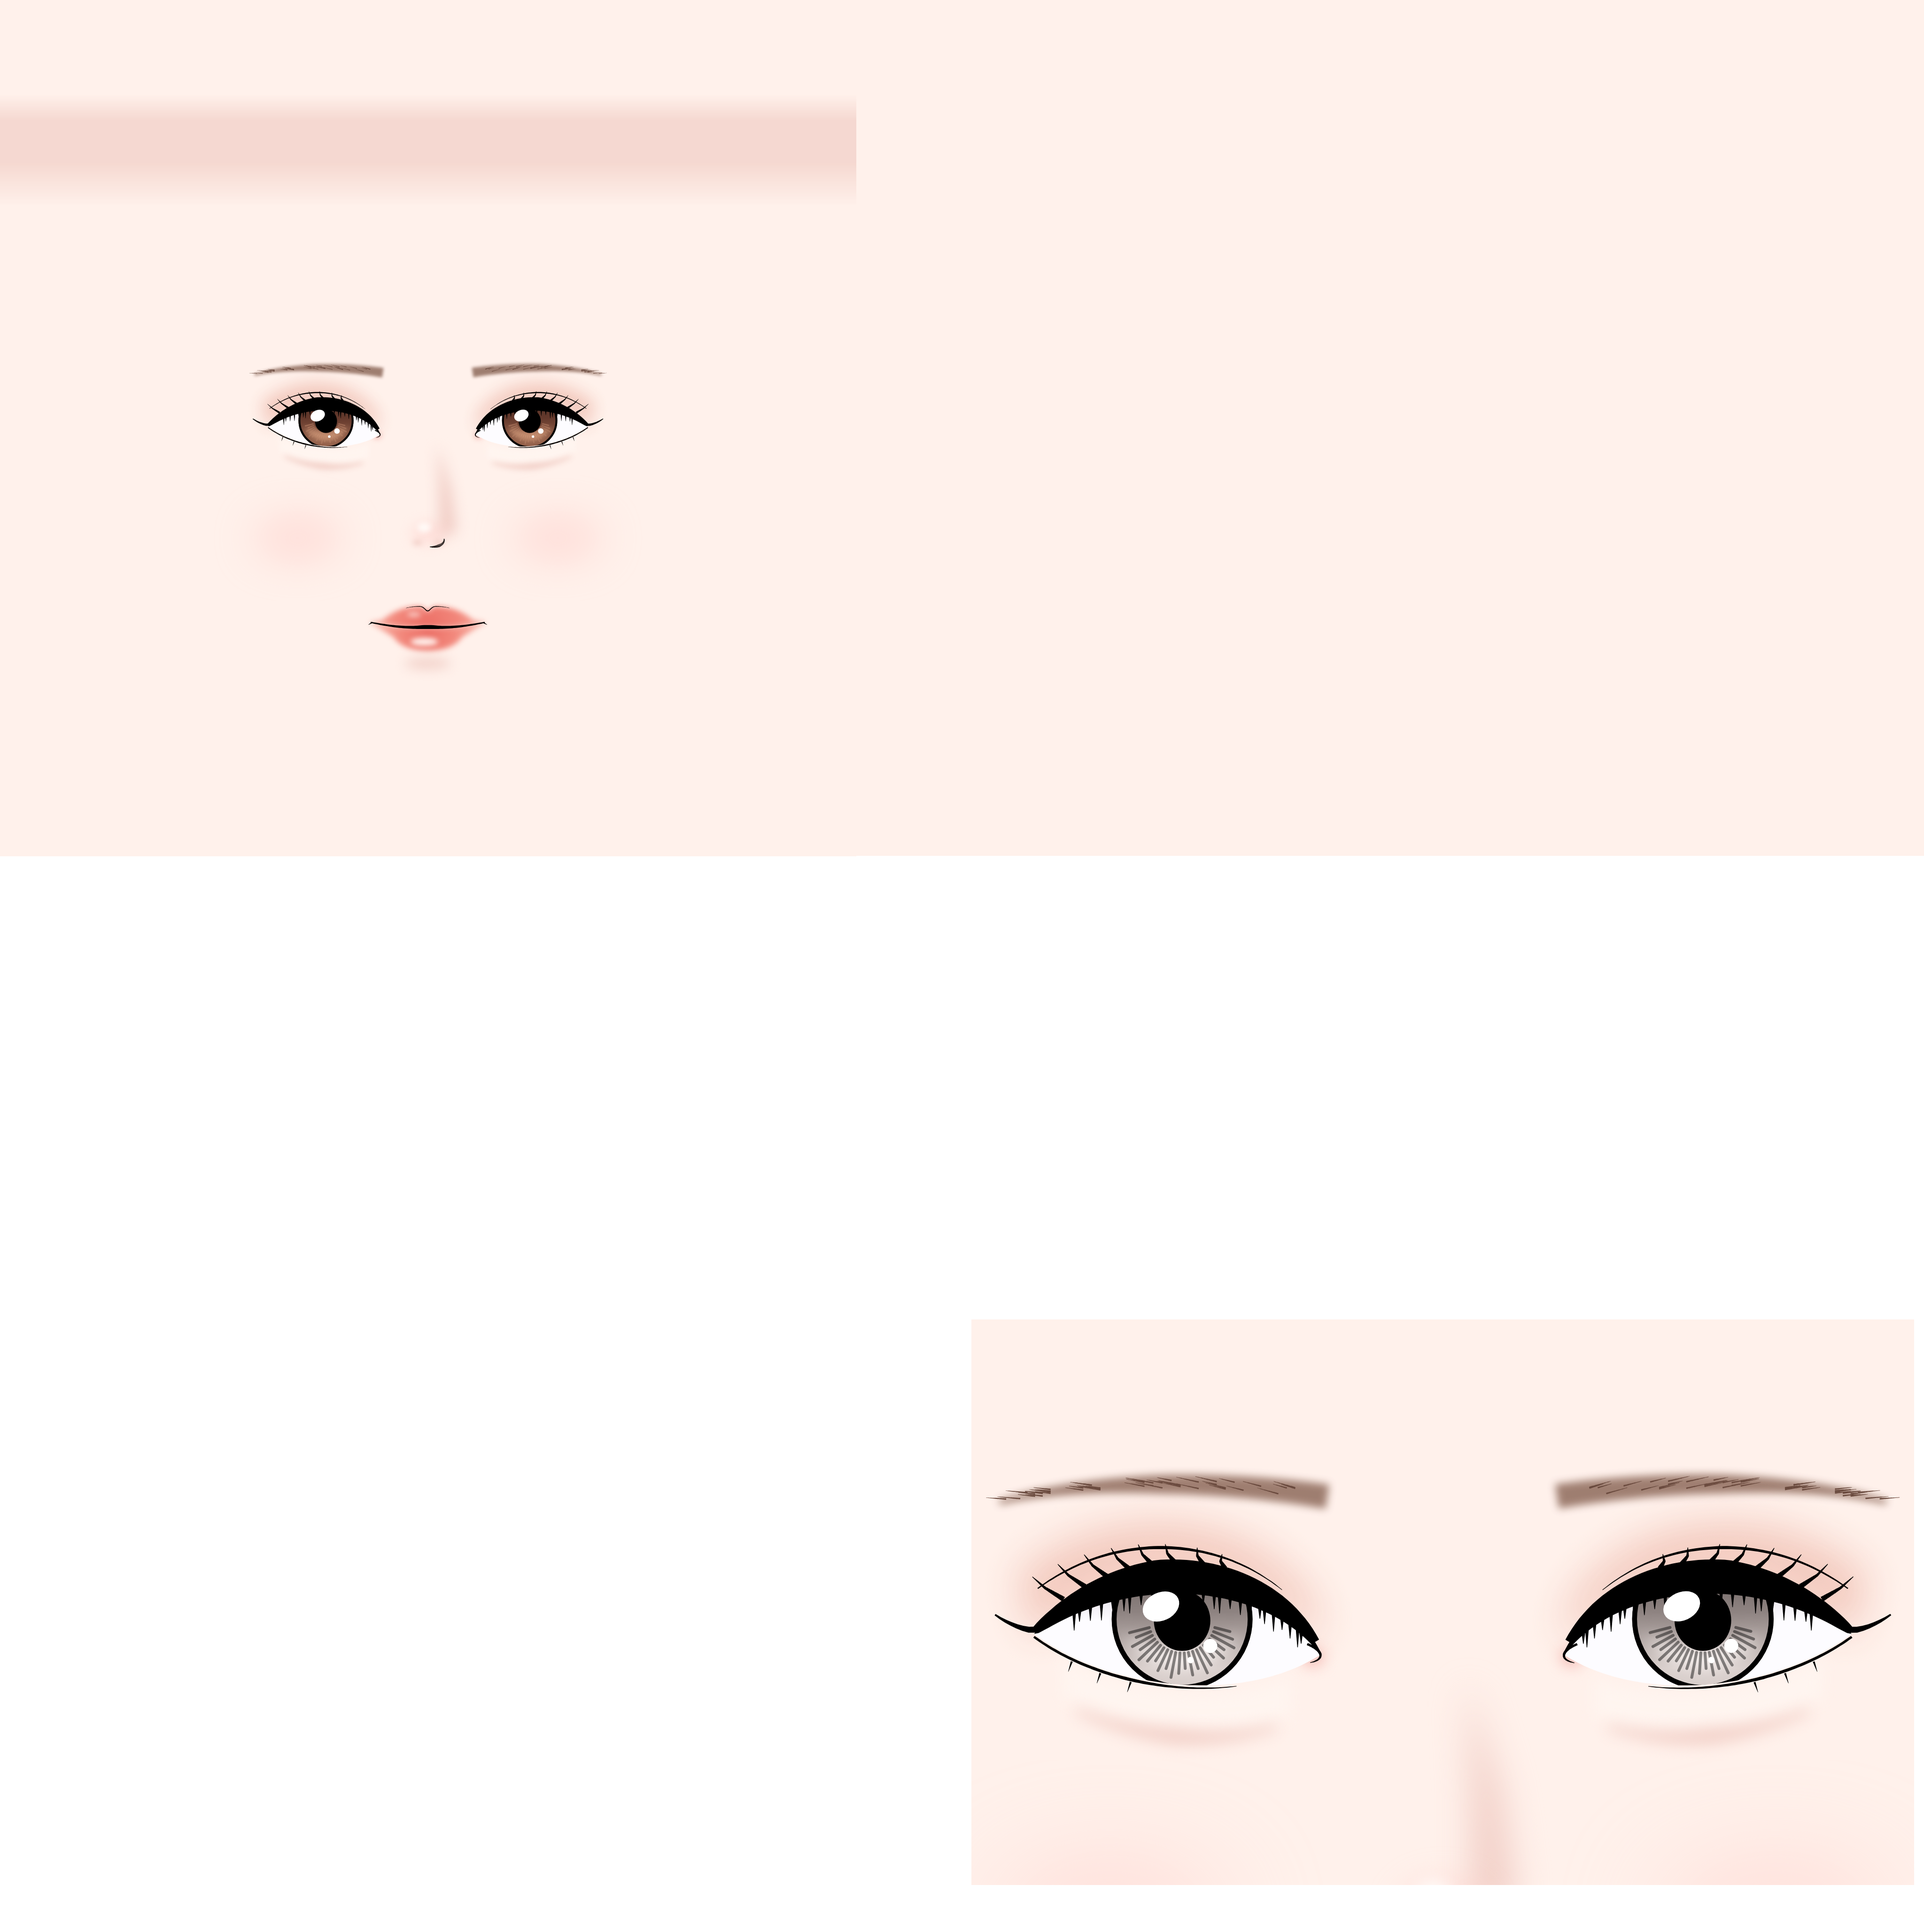
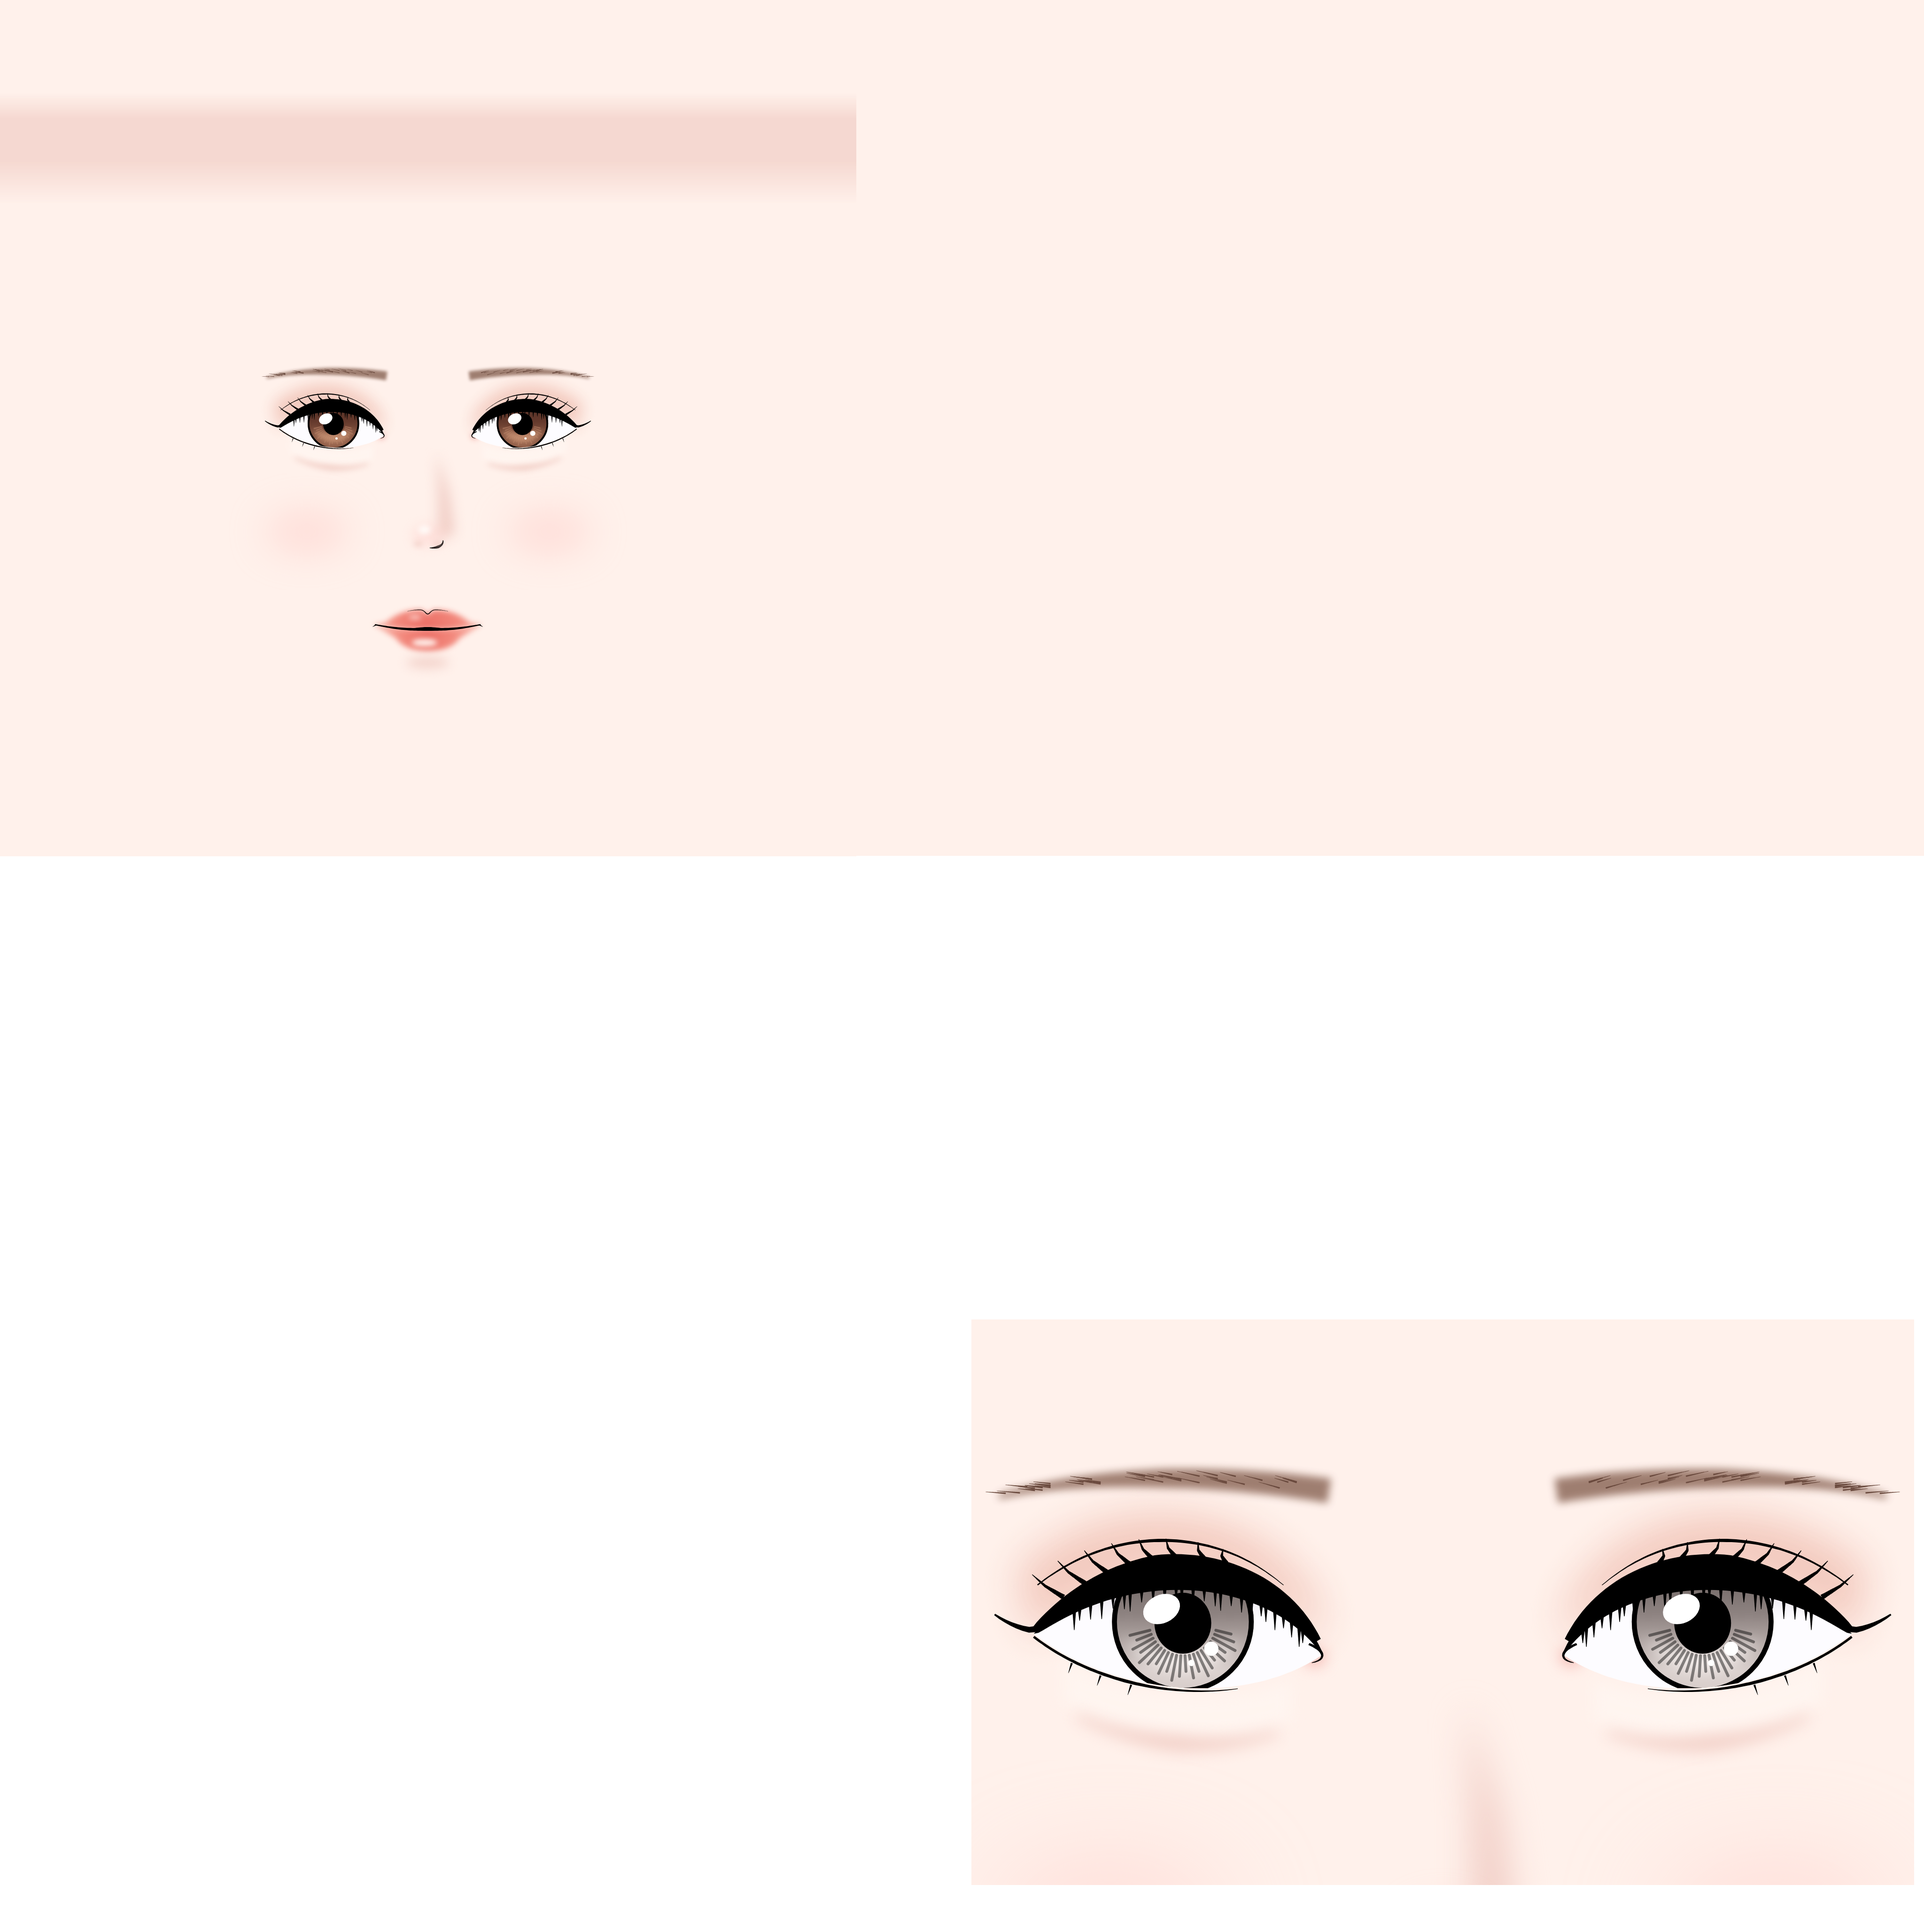
Slim Chaewon's face: narrower cheekbones and a V-line jaw
Cheekbone width 14.7 -> 13.4 cm and jaw 11.3 -> 8.8 cm (a slim young woman's proportions), with
softer, less full cheeks and a gently pointed chin; the mouth cavity stays hidden under the jaw.

Claude-Session: https://claude.ai/code/session_01A7VtKzyp92Bawj5jHazmzM

diff --git a/scripts/chaewon/mhbody.py b/scripts/chaewon/mhbody.py
@@ -121,10 +121,10 @@ SIDES = ('l', 'r')
 SHAPE = [
     # Head: an idol's small face but true to her body (about eight heads tall), a soft V-line oval.
     ('head/head-oval', 0.45, None, None), ('head/head-age', -0.6, 'decr', 'incr'),
-    ('head/head-scale-horiz', 0.05, 'decr', 'incr'), ('head/head-scale-vert', 0.2, 'decr', 'incr'),
-    ('head/head-scale-depth', 0.0, 'decr', 'incr'), ('head/head-fat', -0.2, 'decr', 'incr'),
+    ('head/head-scale-horiz', -0.3, 'decr', 'incr'), ('head/head-scale-vert', 0.2, 'decr', 'incr'),
+    ('head/head-scale-depth', 0.0, 'decr', 'incr'), ('head/head-fat', -0.5, 'decr', 'incr'),
     ('head/head-back-scale-depth', -0.25, 'decr', 'incr'),
-    ('chin/chin-width', -0.2, 'decr', 'incr'), ('chin/chin-height', -0.5, 'decr', 'incr'),
+    ('chin/chin-width', -0.4, 'decr', 'incr'), ('chin/chin-height', -0.5, 'decr', 'incr'),
     ('chin/chin-prominent', 0.15, 'decr', 'incr'), ('chin/chin-bones', -0.3, 'decr', 'incr'),
     ('chin/chin-prognathism', 0.2, 'decr', 'incr'),
     ('forehead/forehead-scale-vert', -0.3, 'decr', 'incr'), ('forehead/forehead-trans-backward', 0.0, 'forward', 'backward'),
@@ -165,7 +165,7 @@ for s in SIDES:
         (f'eyes/{s}-eye-epicanthus', -0.4, 'in', 'out'), (f'eyes/{s}-eye-bag', -0.6, 'decr', 'incr'),
         (f'eyes/{s}-eye-corner1', 0.15, 'down', 'up'), (f'eyes/{s}-eye-corner2', 0.25, 'down', 'up'),
         (f'eyes/{s}-eye-eyefold-angle', 0.2, 'down', 'up'),
-        (f'cheek/{s}-cheek-volume', 0.25, 'decr', 'incr'), (f'cheek/{s}-cheek-bones', -0.15, 'decr', 'incr'),
+        (f'cheek/{s}-cheek-volume', 0.05, 'decr', 'incr'), (f'cheek/{s}-cheek-bones', -0.35, 'decr', 'incr'),
         (f'armslegs/{s}-hand-scale', -0.3, 'decr', 'incr'), (f'armslegs/{s}-hand-fingers-diameter', -0.45, 'decr', 'incr'),
         (f'armslegs/{s}-hand-fingers-length', 0.3, 'decr', 'incr'), (f'armslegs/{s}-foot-scale', -0.25, 'decr', 'incr'),
         (f'armslegs/{s}-lowerarm-scale-horiz', -0.2, 'decr', 'incr'), (f'armslegs/{s}-upperarm-scale-horiz', -0.15, 'decr', 'incr'),
@@ -176,7 +176,7 @@ for s in SIDES:
 
 # A soft oval face with a small, gently pointed chin (her likeness), and a fuller bust.
 SHAPE += [
-    ('head/head-round', 0.35, None, None), ('head/head-invertedtriangular', 0.15, None, None),
+    ('head/head-round', 0.15, None, None), ('head/head-invertedtriangular', 0.35, None, None),
     ('mouth/mouth-trans', 0.75, 'down', 'up'),
     ('nose/nose-trans', -0.15, 'down', 'up'),  # a short philtrum: nose and mouth close together
     ('chin/chin-jaw-drop', -0.2, 'decr', 'incr'), ('breast/breast-dist', -0.15, 'decr', 'incr'),
